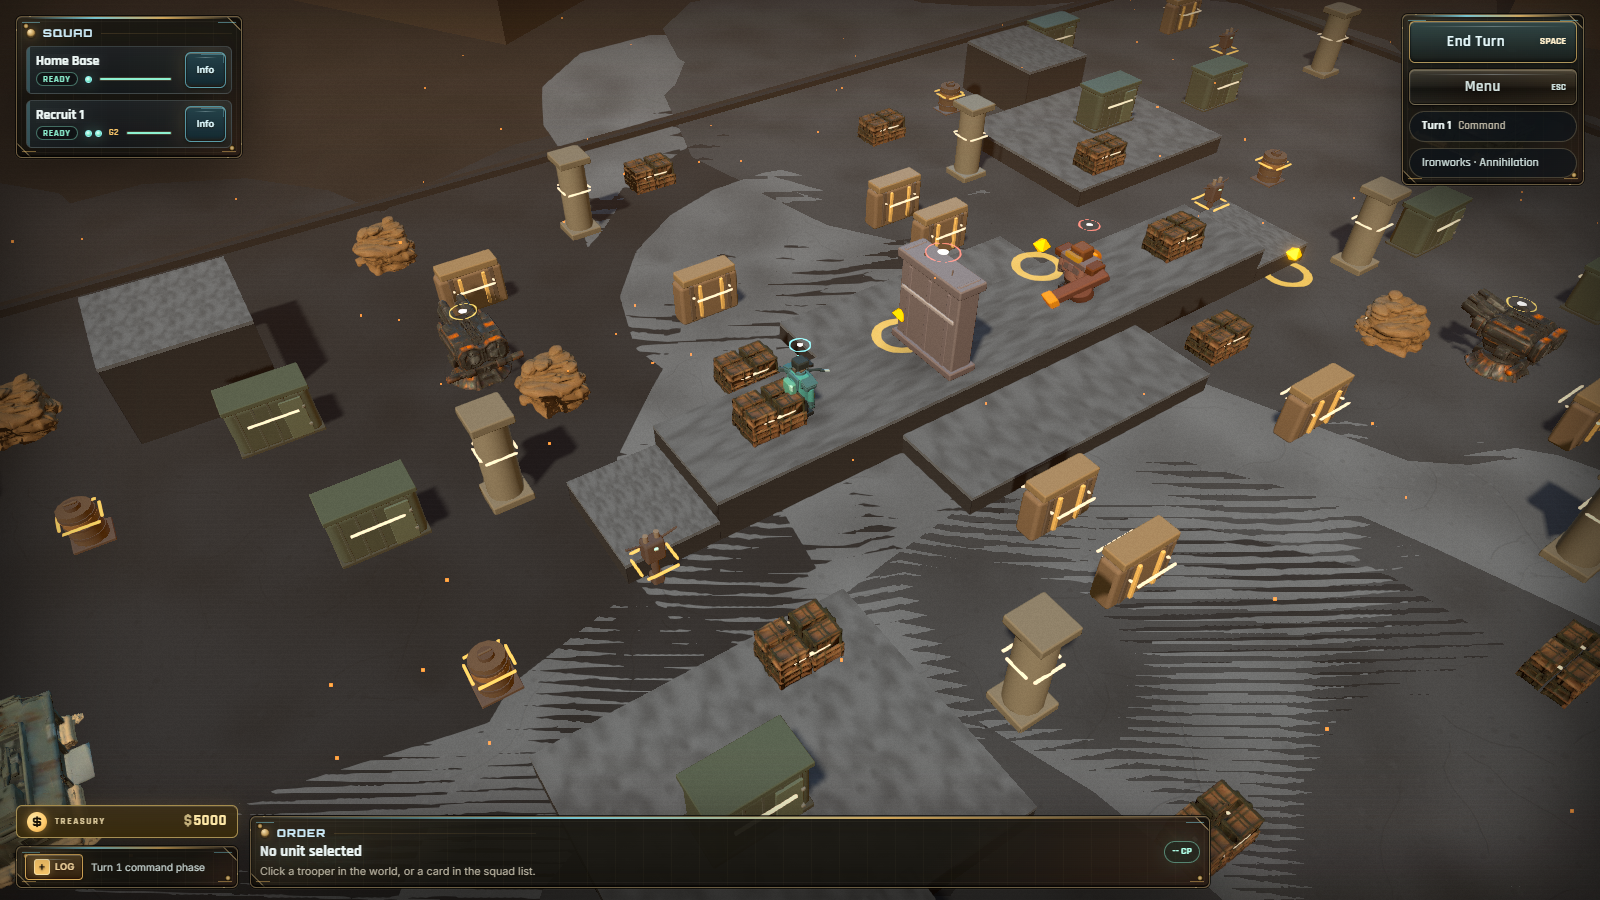
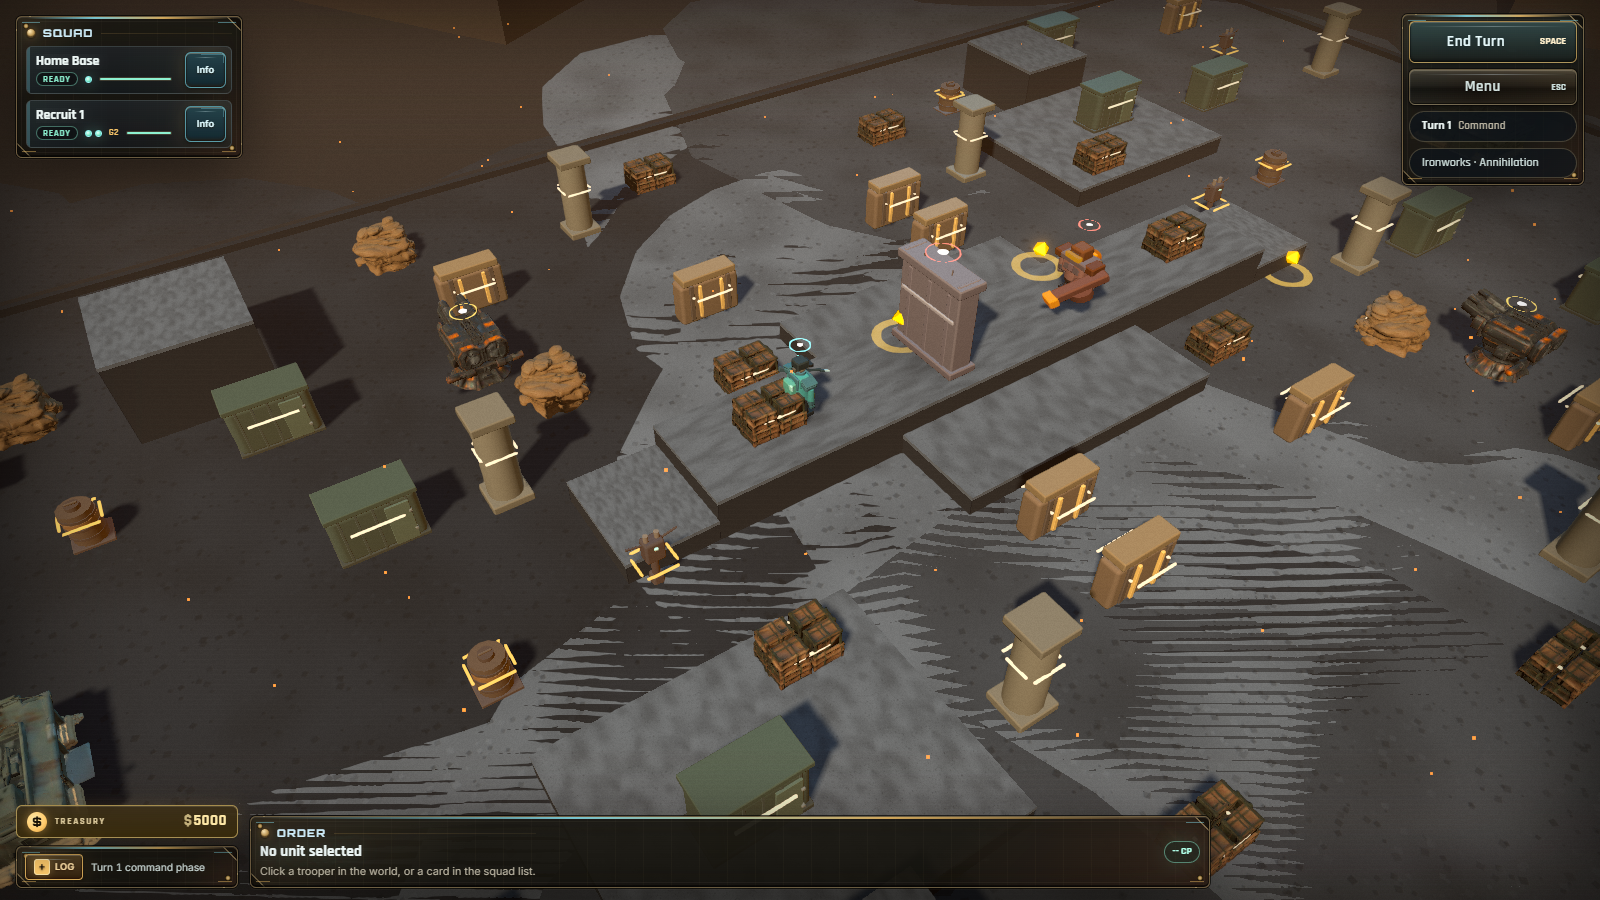
Give every map its own ground; find the hatching that was never in the shadows
Per-map SURFACE. Every map shared one texture generator with a different tint, which
is most of why five battlefields read as one battlefield in five palettes. MapTheme
gains a `surface` kind and the generator draws a different thing for each: Dust Bowl
a dry-pan crack network, Ironworks angular clinker, Verdant Pass grass tufts (no
cracks — a meadow has none, and drawing them anyway is what made the green map read
as painted dirt), Karak broken flagstones with dark joints and a lit top edge, Frozen
Causeway long pale fractures. Tuft lean is full-circle on purpose: a shared diagonal
is exactly what makes an 11-unit tile repeat visible as banding.

And the fine dashed hatching. It has been in every screenshot of this game. I spent
three rounds on the ground texture, two on shadow bias and one rewriting the shadow
frustum, and every one of those was a guess that moved it without removing it.
`npm run probe:ground` strips the albedo, then the normal map, then the particle bed,
one at a time: the arena floor went clean and the surrounding plain did not. The
outer plain is NINE TIMES the arena's extent and was tiling the same detail texture
across it — minified into aliasing hash. It has no texture now.

With the real cause fixed, the shadow bias I had pushed to 0.9/-0.004 chasing it
comes back down to 0.3/-0.001, so small props keep a cast shadow that touches them.

Also: you flagged "cutting arrows/corners" — those were my ground patches, unions of
[…]

diff --git a/game/src/render/worldRenderer.ts b/game/src/render/worldRenderer.ts
@@ -916,7 +916,7 @@ export class WorldRenderer {
     const water = makeWaterAndBridges(theme, surface);
     this.waterRipple = (water.userData.ripple as THREE.Texture | undefined) ?? undefined;
     this.sceneryRoot.add(water);
-    this.sceneryRoot.add(makeSurroundings(theme, width, depth, surface));
+    this.sceneryRoot.add(makeSurroundings(theme, width, depth));
 
     // No ground grid: movement is continuous, so a grid describes no rule the player can use and
     // reads as an unfinished prototype. Range rings and move previews carry that information.
@@ -4319,49 +4319,116 @@ function makeGroundTexture(theme: MapTheme): GroundSurface {
     });
   }
 
-  // Cracks. Thin dark branching lines are the single cheapest thing that makes a procedural
-  // ground read as a SURFACE with a history rather than as a gradient — and they give the normal
-  // map something with a hard edge to catch the low key light on.
+  // ---- THE MAP'S OWN SURFACE ----------------------------------------------------------------
+  // Everything above is generic ground: broad tone and weathering. What makes Dust Bowl read as a
+  // dry pan and Ironworks as a slag yard is WHAT IS DRAWN HERE, not the tint applied over it. Five
+  // maps sharing one generator with a different colour is most of why they felt like one map.
+  const kind = theme.surface ?? "cracked";
   ctx.lineCap = "round";
-  for (let i = 0; i < 20; i += 1) {
-    const x0 = rand() * size;
-    const y0 = rand() * size;
-    const steps = 5 + Math.floor(rand() * 7);
-    const step = 14 + rand() * 26;
-    let heading = rand() * Math.PI * 2;
-    const pts: [number, number][] = [[0, 0]];
-    for (let k = 0; k < steps; k += 1) {
-      heading += (rand() - 0.5) * 1.1;
-      const [lx, ly] = pts[pts.length - 1];
-      pts.push([lx + Math.cos(heading) * step, ly + Math.sin(heading) * step]);
-    }
-    const reach = steps * step;
-    const width = 0.8 + rand() * 1.3;
-    const dark = shade(0.5);
-    wrapped(x0, y0, reach, (px, py) => {
-      ctx.strokeStyle = css(dark, 0.3);
-      ctx.lineWidth = width;
-      ctx.beginPath();
-      ctx.moveTo(px, py);
-      for (const [dx, dy] of pts.slice(1)) ctx.lineTo(px + dx, py + dy);
-      ctx.stroke();
-    });
-  }
 
-  // Pebbles and pits: lit crown over a dark seat, so each one reads as a rounded stone half-buried
-  // in the ground once the normal map picks it up.
-  for (let i = 0; i < 900; i += 1) {
-    const x = rand() * size;
-    const y = rand() * size;
-    const r = 2.2 + rand() * 5.2;
-    const lift = rand() < 0.62;
-    const tone = shade(lift ? 1.16 : 0.68, 0.3 + rand() * 0.5);
-    wrapped(x, y, r + 2, (px, py) => {
-      ctx.fillStyle = css(tone, 0.1 + rand() * 0.14);
-      ctx.beginPath();
-      ctx.ellipse(px, py, r, r * (0.6 + rand() * 0.5), rand() * Math.PI, 0, Math.PI * 2);
-      ctx.fill();
-    });
+  if (kind === "cracked" || kind === "ice") {
+    // A branching fracture network. Dry-pan cracks are short, dark and many; ice fractures are
+    // long, pale and few, and they run straighter.
+    const count = kind === "ice" ? 12 : 22;
+    const tone = kind === "ice" ? shade(1.5) : shade(0.5);
+    const alpha = kind === "ice" ? 0.34 : 0.3;
+    for (let i = 0; i < count; i += 1) {
+      const x0 = rand() * size;
+      const y0 = rand() * size;
+      const steps = kind === "ice" ? 8 + Math.floor(rand() * 9) : 5 + Math.floor(rand() * 7);
+      const step = kind === "ice" ? 30 + rand() * 44 : 14 + rand() * 26;
+      let heading = rand() * Math.PI * 2;
+      const pts: [number, number][] = [[0, 0]];
+      for (let k = 0; k < steps; k += 1) {
+        heading += (rand() - 0.5) * (kind === "ice" ? 0.4 : 1.1);
+        const [lx, ly] = pts[pts.length - 1];
+        pts.push([lx + Math.cos(heading) * step, ly + Math.sin(heading) * step]);
+      }
+      const width = kind === "ice" ? 1.4 + rand() * 1.6 : 0.8 + rand() * 1.3;
+      wrapped(x0, y0, steps * step, (px, py) => {
+        ctx.strokeStyle = css(tone, alpha);
+        ctx.lineWidth = width;
+        ctx.beginPath();
+        ctx.moveTo(px, py);
+        for (const [dx, dy] of pts.slice(1)) ctx.lineTo(px + dx, py + dy);
+        ctx.stroke();
+      });
+    }
+  } else if (kind === "grass") {
+    // Tufts: short strokes at a shared-ish lean, two tones, dense. No cracks — a meadow has none,
+    // and drawing them anyway is what made the green map read as painted dirt.
+    for (let i = 0; i < 2100; i += 1) {
+      const x = rand() * size;
+      const y = rand() * size;
+      const len = 3 + rand() * 7;
+      // Full-circle lean. A biased range gave every tuft a shared diagonal, and a shared
+      // direction is exactly what makes an 11-unit tile repeat visible as banding.
+      const lean = rand() * Math.PI * 2;
+      const tone = shade(rand() < 0.5 ? 1.2 : 0.72, 0.4 + rand() * 0.5);
+      wrapped(x, y, len + 2, (px, py) => {
+        ctx.strokeStyle = css(tone, 0.18 + rand() * 0.2);
+        ctx.lineWidth = 1 + rand();
+        ctx.beginPath();
+        ctx.moveTo(px, py);
+        ctx.lineTo(px + Math.sin(lean) * len, py - Math.cos(lean) * len);
+        ctx.stroke();
+      });
+    }
+  } else if (kind === "slag") {
+    // Clinker: angular chips of burnt aggregate, high contrast, no organic curve anywhere.
+    for (let i = 0; i < 1300; i += 1) {
+      const x = rand() * size;
+      const y = rand() * size;
+      const r = 2 + rand() * 6;
+      const dark = rand() < 0.55;
+      const tone = shade(dark ? 0.5 : 1.3, rand() * 0.4);
+      const spin = rand() * Math.PI;
+      wrapped(x, y, r + 2, (px, py) => {
+        ctx.save();
+        ctx.translate(px, py);
+        ctx.rotate(spin);
+        ctx.fillStyle = css(tone, 0.2 + rand() * 0.3);
+        ctx.beginPath();
+        ctx.moveTo(-r, -r * 0.5);
+        ctx.lineTo(r * 0.7, -r);
+        ctx.lineTo(r, r * 0.6);
+        ctx.lineTo(-r * 0.5, r);
+        ctx.closePath();
+        ctx.fill();
+        ctx.restore();
+      });
+    }
+  } else {
+    // Flagstones: an irregular grid of broken slabs with dark joints and a lit top edge each.
+    const cell = 74;
+    const joint = shade(0.42);
+    const lip = shade(1.28);
+    for (let gx = 0; gx < size / cell; gx += 1) {
+      for (let gy = 0; gy < size / cell; gy += 1) {
+        const jx = (rand() - 0.5) * cell * 0.3;
+        const jy = (rand() - 0.5) * cell * 0.3;
+        const w = cell * (0.62 + rand() * 0.3);
+        const h = cell * (0.62 + rand() * 0.3);
+        const px = gx * cell + cell / 2 + jx;
+        const py = gy * cell + cell / 2 + jy;
+        const spin = (rand() - 0.5) * 0.14;
+        wrapped(px, py, cell, (dx, dy) => {
+          ctx.save();
+          ctx.translate(dx, dy);
+          ctx.rotate(spin);
+          ctx.strokeStyle = css(joint, 0.34);
+          ctx.lineWidth = 2.4 + rand() * 1.6;
+          ctx.strokeRect(-w / 2, -h / 2, w, h);
+          ctx.strokeStyle = css(lip, 0.22);
+          ctx.lineWidth = 1.2;
+          ctx.beginPath();
+          ctx.moveTo(-w / 2, -h / 2);
+          ctx.lineTo(w / 2, -h / 2);
+          ctx.stroke();
+          ctx.restore();
+        });
+      }
+    }
   }
 
   // Fine grain so the surface does not read as smooth plastic when the camera is close.
@@ -4453,7 +4520,7 @@ function makeNormalMap(albedo: Uint8ClampedArray, size: number): THREE.CanvasTex
   return texture;
 }
 
-function makeSurroundings(theme: MapTheme, width: number, depth: number, surface: GroundSurface): THREE.Group {
+function makeSurroundings(theme: MapTheme, width: number, depth: number): THREE.Group {
   const group = new THREE.Group();
   group.name = "surroundings";
   const ground = new THREE.Color(theme.ground);
@@ -4467,15 +4534,14 @@ function makeSurroundings(theme: MapTheme, width: number, depth: number, surface
   // and it costs one multiply. The plain drops to a third of the arena's value and cools toward
   // fog, so the arena reads as a lit stage without a single extra draw call.
   const plainColor = ground.clone().lerp(fog, 0.3).multiplyScalar(0.34);
-  // Carries the SAME ground texture as the arena floor (tiled to match world scale), so the
-  // battlefield reads as a marked-out part of a landscape rather than a lit diorama sitting on a
-  // separate, differently-coloured table.
-  const plainMap = surface.map.clone();
-  plainMap.needsUpdate = true;
-  plainMap.repeat.set((width * 9) / GROUND_TILE, (depth * 9) / GROUND_TILE);
+  // NO TEXTURE OUT HERE. The plain is nine times the arena's extent, so tiling the ground detail
+  // across it minified the texture into aliasing hash — the fine dashed hatching that has been in
+  // every screenshot of this game and that survived three rounds of texture tuning, two shadow-bias
+  // changes and a shadow-frustum rewrite, because none of those were where it lived. A surface
+  // meant to recede into fog wants a flat tone anyway.
   const plain = new THREE.Mesh(
     new THREE.PlaneGeometry(width * 9, depth * 9),
-    new THREE.MeshStandardMaterial({ map: plainMap, color: plainColor, roughness: 1, metalness: 0 }),
+    new THREE.MeshStandardMaterial({ color: plainColor, roughness: 1, metalness: 0 }),
   );
   plain.rotation.x = -Math.PI / 2;
   plain.position.y = -0.22;

diff --git a/game/src/game/maps.ts b/game/src/game/maps.ts
@@ -11,8 +11,16 @@ export interface AmbientSpec {
   density?: number; // ~1 = the default particle count
 }
 
+/**
+ * The character of the ground itself, not just its colour. Every map used to share one texture
+ * generator with a different tint, which is most of why they read as the same battlefield in five
+ * palettes. This picks WHAT is drawn: cracks, tufts, clinker, flagstones or fractures.
+ */
+export type GroundSurfaceKind = "cracked" | "grass" | "slag" | "paved" | "ice";
+
 export interface MapTheme {
   ground: number;
+  surface?: GroundSurfaceKind;
   groundAccent: number;
   grid: number;
   fog: number;
@@ -262,7 +270,7 @@ const RAW_MAPS: readonly MapDef[] = [
     blurb: "Sun-baked flats walled in by two towering rock ranges.",
     feel: "Open desert basin between great mountain ranges — long sightlines reward snipers and armor; climb the slopes for overwatch.",
     seed: 0x44555354,
-    theme: { ground: 0x7a5530, groundAccent: 0xd9a05a, grid: 0xd6ad6d, fog: 0x8fa6b8, fogDensity: 0.009, playerLight: 0x6fd7ff, enemyLight: 0xff7c5e, sky: 0x7fa8c9, ambient: { kind: "dust", color: 0xe6c98a, density: 1.1 } },
+    theme: { ground: 0x7a5530, surface: "cracked", groundAccent: 0xd9a05a, grid: 0xd6ad6d, fog: 0x8fa6b8, fogDensity: 0.009, playerLight: 0x6fd7ff, enemyLight: 0xff7c5e, sky: 0x7fa8c9, ambient: { kind: "dust", color: 0xe6c98a, density: 1.1 } },
     terrain: {
       bounds: { minX: -35, maxX: 35, minZ: -22, maxZ: 22 }, // LARGE: wide basin, long armor/sniper lanes
       maxHeight: 3.6,
@@ -319,7 +327,7 @@ const RAW_MAPS: readonly MapDef[] = [
     blurb: "A cramped foundry of steel and shipping crates.",
     feel: "Tight industrial maze — dense cover and chokepoints favor infantry brawls.",
     seed: 0x49524f4e,
-    theme: { ground: 0x272c34, groundAccent: 0x7d8794, grid: 0x6f7c8c, fog: 0x53412f, fogDensity: 0.014, playerLight: 0x5fd7ff, enemyLight: 0xff6d57, sky: 0x8a5a32, ambient: { kind: "embers", color: 0xff9a4a, density: 0.85 } },
+    theme: { ground: 0x272c34, surface: "slag", groundAccent: 0x7d8794, grid: 0x6f7c8c, fog: 0x53412f, fogDensity: 0.014, playerLight: 0x5fd7ff, enemyLight: 0xff6d57, sky: 0x8a5a32, ambient: { kind: "embers", color: 0xff9a4a, density: 0.85 } },
     terrain: {
       bounds: { minX: -24, maxX: 24, minZ: -15, maxZ: 15 },
       maxHeight: 2.6,
@@ -371,7 +379,7 @@ const RAW_MAPS: readonly MapDef[] = [
     blurb: "A green valley walled by forested mountains around a central hill.",
     feel: "Towering wooded mountain flanks and a true high-ground center — hold the hill, watch the slopes.",
     seed: 0x56455244,
-    theme: { ground: 0x35502a, groundAccent: 0x93b04a, grid: 0x86a85f, fog: 0x93b0c4, fogDensity: 0.009, playerLight: 0x6fd7ff, enemyLight: 0xff7c5e, sky: 0x86b2d4, ambient: { kind: "pollen", color: 0xd8f0a0, density: 1 } },
+    theme: { ground: 0x35502a, surface: "grass", groundAccent: 0x93b04a, grid: 0x86a85f, fog: 0x93b0c4, fogDensity: 0.009, playerLight: 0x6fd7ff, enemyLight: 0xff7c5e, sky: 0x86b2d4, ambient: { kind: "pollen", color: 0xd8f0a0, density: 1 } },
     terrain: {
       bounds: { minX: -28, maxX: 28, minZ: -19, maxZ: 19 },
       maxHeight: 3.6,
@@ -416,7 +424,7 @@ const RAW_MAPS: readonly MapDef[] = [
     blurb: "A narrow land bridge between frozen basins.",
     feel: "Linear and funneled — a single icy causeway forces brutal head-on fights.",
     seed: 0x46524f5a,
-    theme: { ground: 0x64798f, groundAccent: 0xe2eef6, grid: 0xbfd6e6, fog: 0xc9b294, fogDensity: 0.011, playerLight: 0x7fd7ff, enemyLight: 0xff8f7f, sky: 0xd8b58a, ambient: { kind: "snow", color: 0xeaf4ff, density: 1.2 } },
+    theme: { ground: 0x64798f, surface: "ice", groundAccent: 0xe2eef6, grid: 0xbfd6e6, fog: 0xc9b294, fogDensity: 0.011, playerLight: 0x7fd7ff, enemyLight: 0xff8f7f, sky: 0xd8b58a, ambient: { kind: "snow", color: 0xeaf4ff, density: 1.2 } },
     terrain: {
       bounds: { minX: -37, maxX: 37, minZ: -19, maxZ: 19 }, // LARGE: long land bridge, deep flanks
       maxHeight: 2.8,
@@ -473,7 +481,7 @@ const RAW_MAPS: readonly MapDef[] = [
     blurb: "Toppled colonnades over stepped stone mesas.",
     feel: "Vertical ruins — climb the mesas and fight among broken pillars and cliffs.",
     seed: 0x4b415241,
-    theme: { ground: 0x664d2c, groundAccent: 0xc79149, grid: 0xc6a567, fog: 0x6a5f86, fogDensity: 0.012, playerLight: 0x6fd7ff, enemyLight: 0xff7c5e, sky: 0x6e5f96, ambient: { kind: "ash", color: 0xcbb083, density: 0.9 } },
+    theme: { ground: 0x664d2c, surface: "paved", groundAccent: 0xc79149, grid: 0xc6a567, fog: 0x6a5f86, fogDensity: 0.012, playerLight: 0x6fd7ff, enemyLight: 0xff7c5e, sky: 0x6e5f96, ambient: { kind: "ash", color: 0xcbb083, density: 0.9 } },
     terrain: {
       bounds: { minX: -26, maxX: 26, minZ: -18, maxZ: 18 },
       maxHeight: 3.6,
@@ -535,7 +543,7 @@ const RAW_MAPS: readonly MapDef[] = [
     blurb: "A symmetric bowl built for honest, balanced duels.",
     feel: "Balanced competitive arena — mirrored cover nests and a sunken central basin.",
     seed: 0x43524f53,
-    theme: { ground: 0x414833, groundAccent: 0x98a15c, grid: 0x97a277, fog: 0x94a3b4, fogDensity: 0.010, playerLight: 0x6fd7ff, enemyLight: 0xff7c5e, sky: 0x8fa3ba, ambient: { kind: "pollen", color: 0xc6d8a8, density: 0.7 } },
+    theme: { ground: 0x414833, surface: "grass", groundAccent: 0x98a15c, grid: 0x97a277, fog: 0x94a3b4, fogDensity: 0.010, playerLight: 0x6fd7ff, enemyLight: 0xff7c5e, sky: 0x8fa3ba, ambient: { kind: "pollen", color: 0xc6d8a8, density: 0.7 } },
     terrain: {
       bounds: { minX: -26, maxX: 26, minZ: -17, maxZ: 17 },
       maxHeight: 3.0,

diff --git a/game/src/render/stage.ts b/game/src/render/stage.ts
@@ -160,14 +160,19 @@ export class Stage {
     key.shadow.camera.bottom = -SHADOW_RADIUS;
     key.shadow.camera.near = 1;
     key.shadow.camera.far = 120;
-    key.shadow.bias = -0.004;
-    // NORMAL BIAS IS SIZED TO THE TEXEL, NOT PICKED BY EYE. The shadow frustum spans 112x68 world
+    key.shadow.bias = -0.001;
+    // Normal bias is sized to the shadow TEXEL, not picked by eye: the frustum spans 84 world units
+    // at 2048^2, so a texel is ~4cm and a tenth-of-a-texel bias self-shadows the near-flat arena.
+    // These were briefly pushed far higher (0.9 / -0.004) while chasing a hatching artefact that
+    // turned out to live in the outer plain's minified texture, not in the shadow pass at all —
+    // pulled back here so small props keep a cast shadow that touches them.
+    // Original note: The shadow frustum spans 112x68 world
     // units at 2048^2, so one shadow texel is ~5.5cm on the ground. At 0.05 the bias was a tenth of
     // a texel, and the near-flat arena floor under a low sun self-shadowed into regular diagonal
     // banding — the dashes visible across the ground in every screenshot, which read as a texture
     // artefact and are not one. Roughly four texels of normal bias clears it without detaching
     // contact shadows from the units that cast them.
-    key.shadow.normalBias = 0.9;
+    key.shadow.normalBias = 0.3;
     this.keyLight = key;
     this.scene.add(key);
 

diff --git a/CLAUDE.md b/CLAUDE.md
@@ -190,7 +190,15 @@ Standard three-layer split (pure sim → read-only renderer → DOM HUD, composi
   68% of every surface with a light salmon, so enemy armour, walls and HQs all came out pale pink.
   The team read is carried by the marker ring, the accent trim and the emissive glow; a hull only
   has to sit in the right hue family. See `setFactionTints`/`roleColor`.
-- **TWO different striping artefacts have looked identical on the ground.** Both are fixed; both
+- **THE OUTER PLAIN CARRIES NO TILED TEXTURE.** It is nine times the arena's extent; tiling the
+  ground detail across it minifies the texture into aliasing hash, which reads as fine dashed
+  hatching over half the board. That artefact was in every screenshot of this game and survived
+  three rounds of texture tuning, two shadow-bias changes and a shadow-frustum rewrite, because
+  none of those were where it lived. `npm run probe:ground <scenario>` is what found it: it strips
+  the albedo, then the normal map, then the particle bed, one at a time — the arena went clean and
+  the surround did not, which named the culprit in one run. A surface meant to recede into fog
+  wants a flat tone anyway.
+- **TWO more striping artefacts have looked identical on the ground.** Both are fixed; both
   will come back if their cause is reintroduced. (1) SHADOW ACNE on the near-flat arena under a low
   sun — `shadow.normalBias` has to be several shadow texels, not a tenth of one; 0.55 is the
   measured floor and anything under ~0.5 brings the bands back. (2) COPLANAR Z-FIGHT between the
